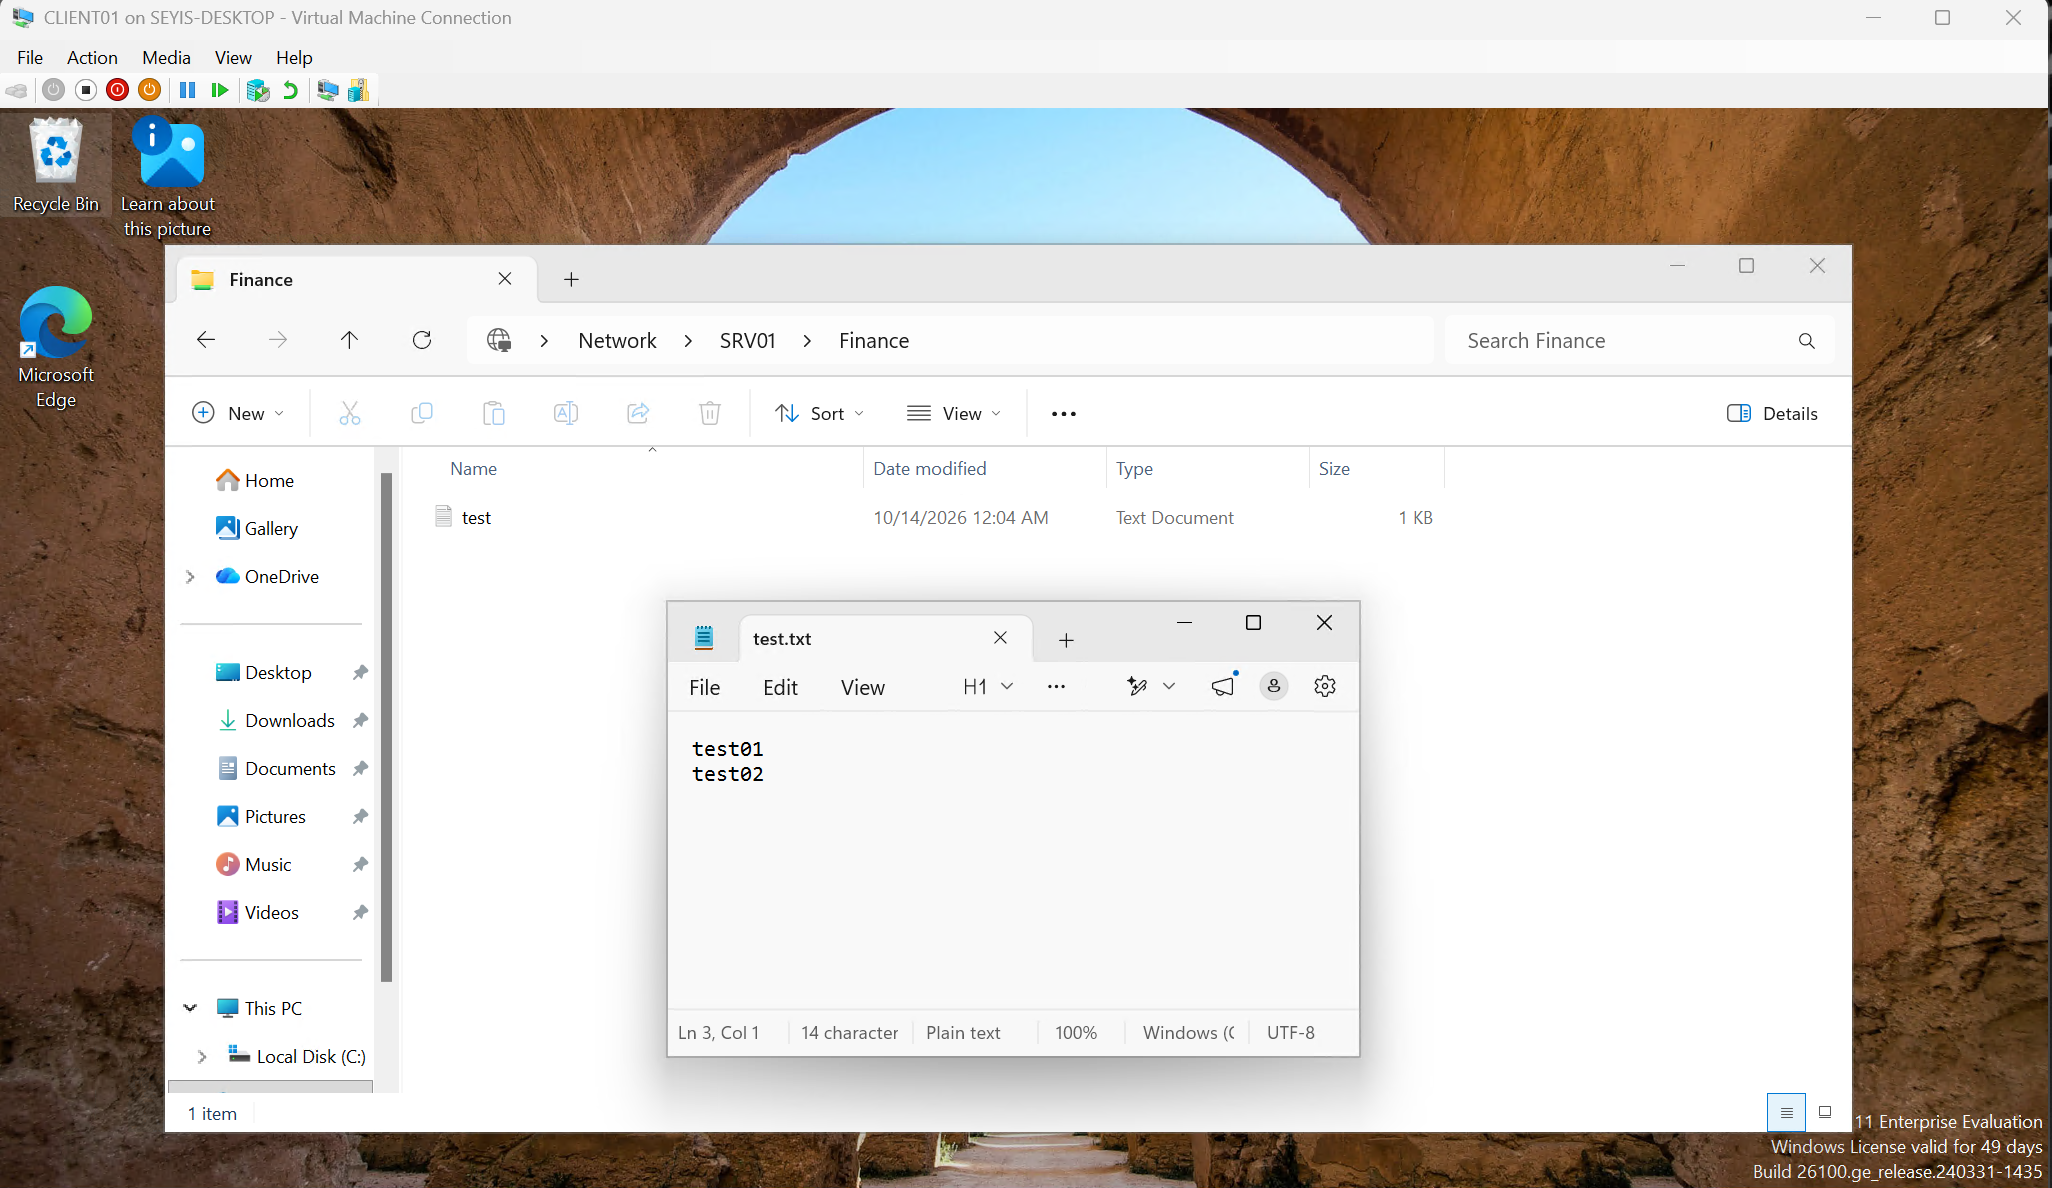
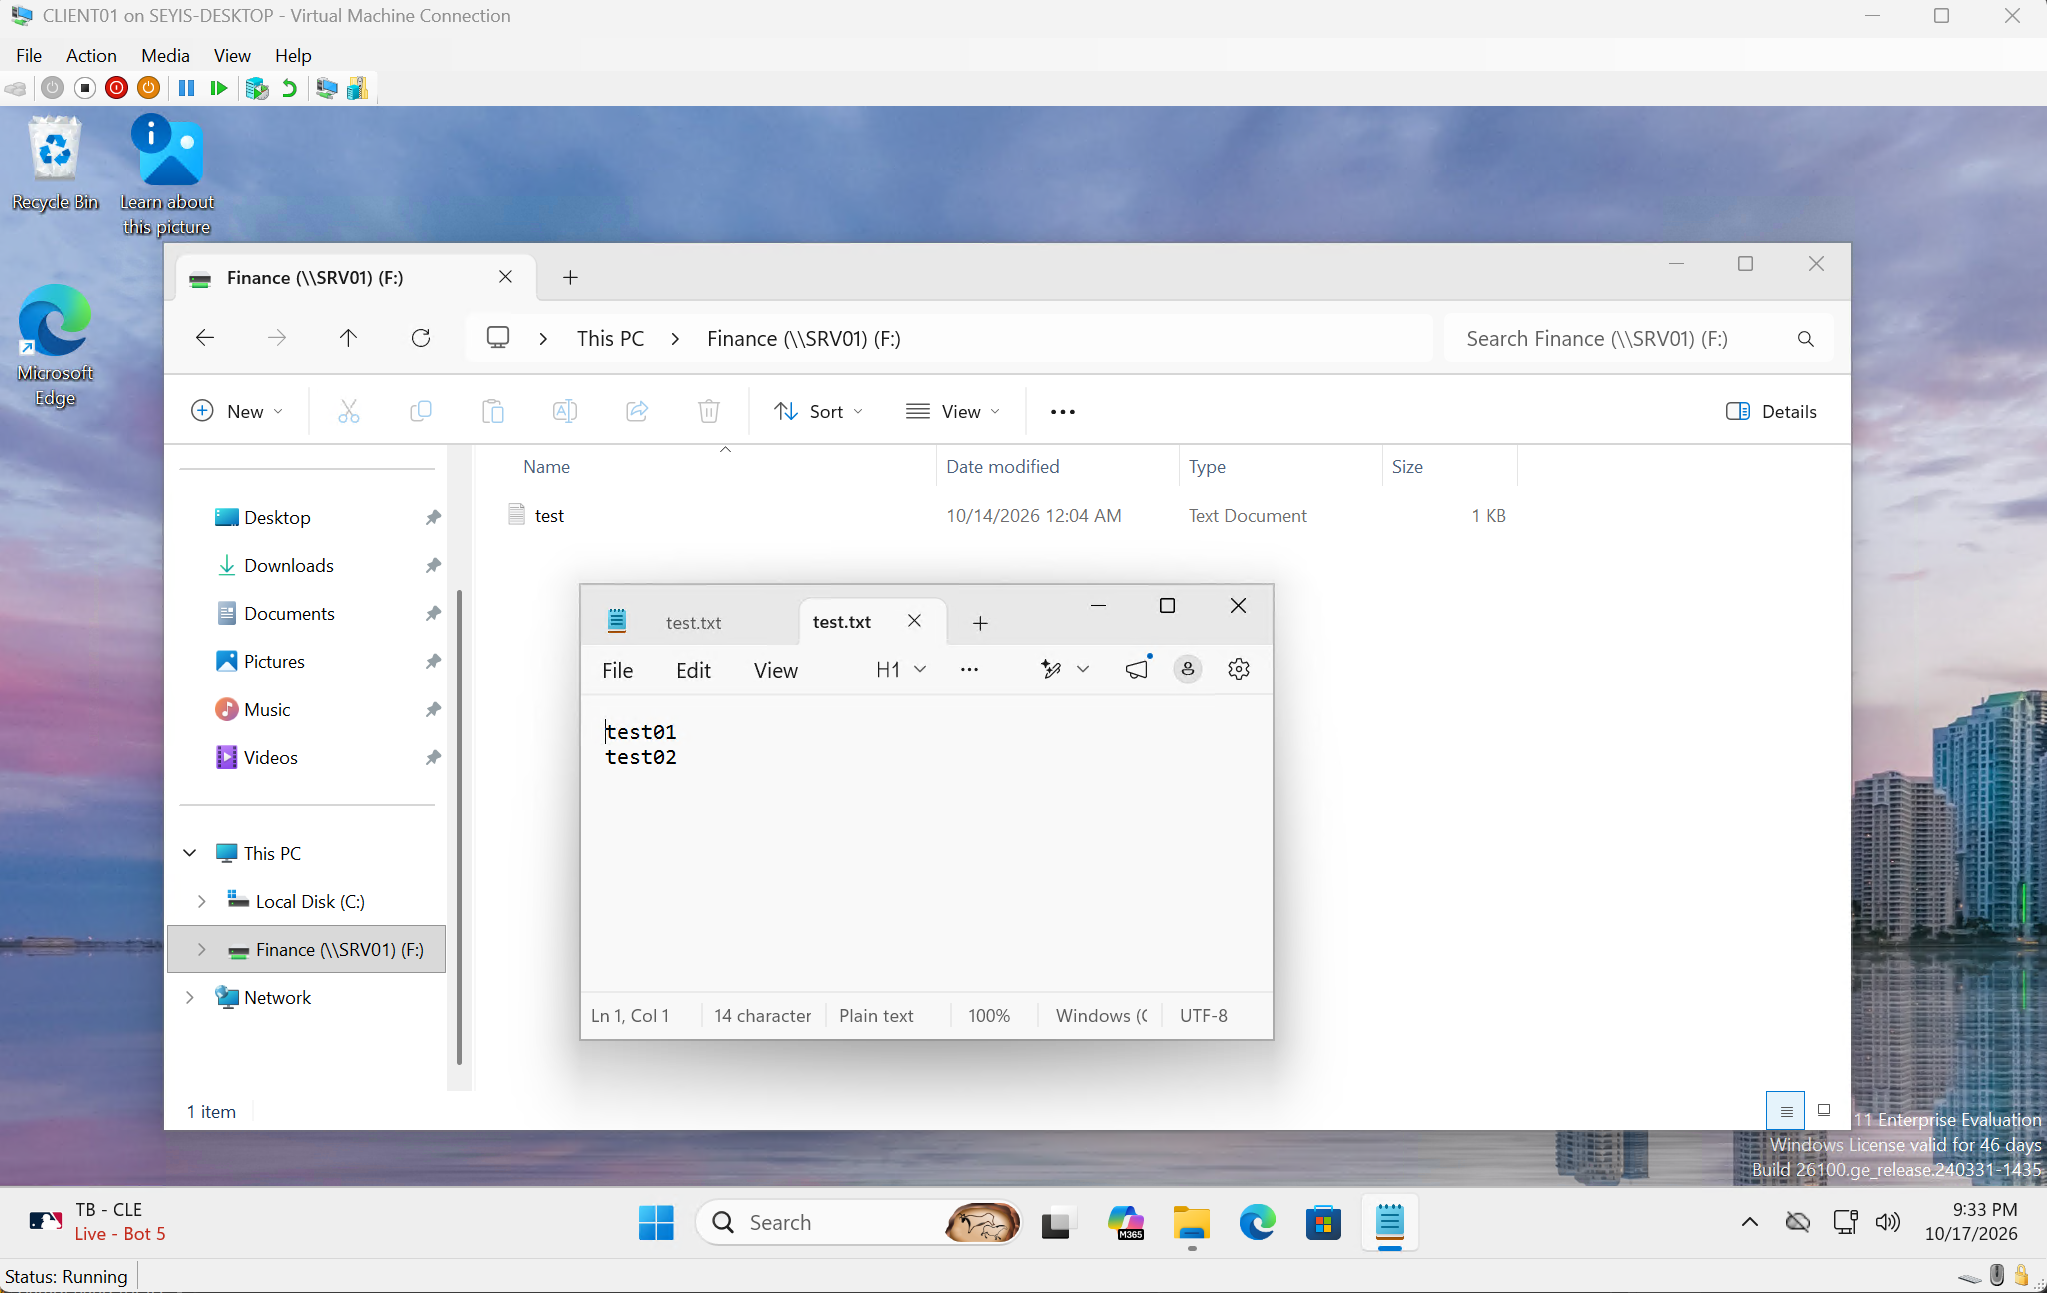
Updated file share access validation images and replaced outdated screenshot with a new one for clarity.

diff --git a/README.md b/README.md
@@ -82,7 +82,7 @@ Department shares on SRV01 are protected with AD security groups using the AGDLP
 <table>
   <tr>
     <td width="50%"><img src="./screenshots/file-services/smb-share-access-validation.png" alt="Finance user editing a file on the Finance share"></td>
-    <td width="50%"><img src="./screenshots/security/permission-test.png" alt="Non-Finance user denied access to the Finance share"></td>
+    <td width="50%"><img src="./screenshots/security/smb-share-access-test.png" alt="Non-Finance user denied access to the Finance share"></td>
   </tr>
   <tr>
     <td align="center"><b>Authorized:</b> Finance user creates and edits a file</td>

diff --git a/docs/file-services.md b/docs/file-services.md
@@ -45,7 +45,7 @@ From CLIENT01:
 <table>
   <tr>
     <td width="50%"><img src="../screenshots/file-services/smb-share-access-validation.png" alt="Finance user editing a file on the Finance share"></td>
-    <td width="50%"><img src="../screenshots/security/permission-test.png" alt="Non-Finance user denied access to the Finance share"></td>
+    <td width="50%"><img src="../screenshots/security/smb-share-access-test.png" alt="Non-Finance user denied access to the Finance share"></td>
   </tr>
   <tr>
     <td align="center"><b>Authorized:</b> Finance user creates and edits <code>test.txt</code></td>
